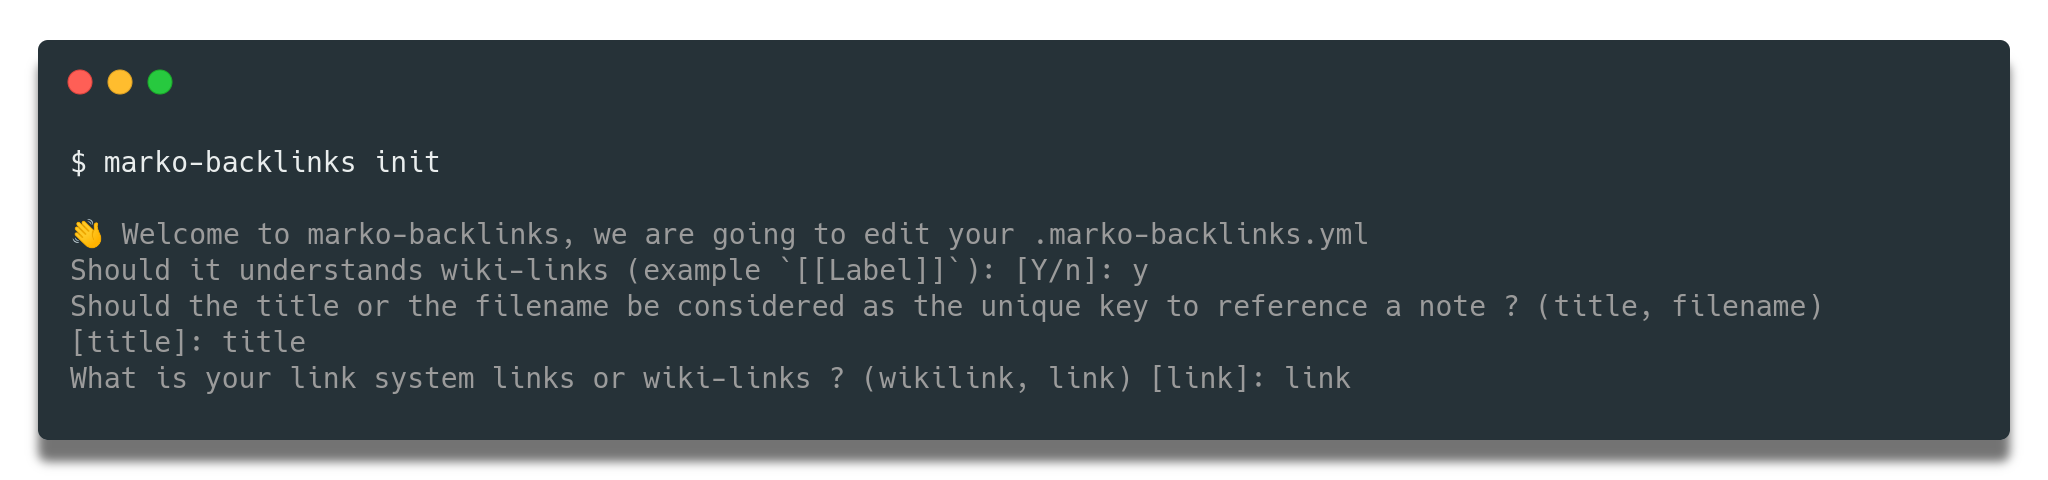
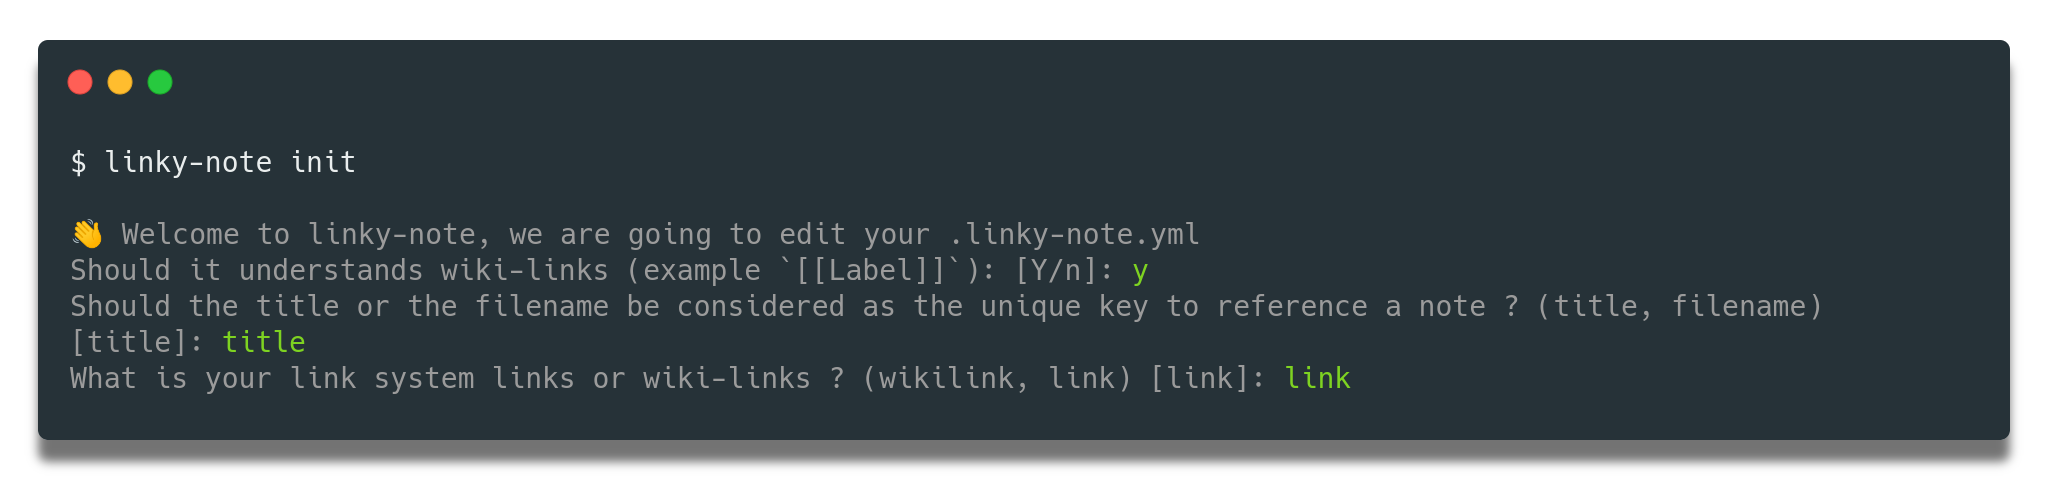
chore(linky-note): rename project

diff --git a/linky_note/entrypoints/append_linked_references.py b/linky_note/entrypoints/append_linked_references.py
@@ -1,40 +1,35 @@
 # type: ignore[attr-defined]
 
 import os
-from enum import Enum
 from pathlib import Path
 
 import typer
 from click import Choice
-from marko.md_renderer import MarkdownRenderer
-from marko_backlinks import __version__
-from marko_backlinks.adapters.markdown.factories import MarkoExtractorFactory
-from marko_backlinks.adapters.markdown.marko_modifier import MarkoModifierImpl
-from marko_backlinks.adapters.markdown.marko_parser import MarkoParserImpl
-from marko_backlinks.adapters.references_db.factories import (
+from linky_note import __version__
+from linky_note.adapters.markdown.factories import MarkoExtractorFactory
+from linky_note.adapters.markdown.marko_modifier import MarkoModifierImpl
+from linky_note.adapters.markdown.marko_parser import MarkoParserImpl
+from linky_note.adapters.references_db.factories import (
     SqlReferenceDatabaseFactory,
 )
-from marko_backlinks.dto.dto import (
-    MarkoBacklinksConfig,
-    ModifyConfig,
-    ParseConfig,
-)
-from marko_backlinks.infrastructure.db_connection import ENGINE
-from marko_backlinks.interfaces import (
+from linky_note.dto.dto import LinkyNoteConfig, ModifyConfig, ParseConfig
+from linky_note.infrastructure.db_connection import ENGINE
+from linky_note.interfaces import (
     modifier,
     parser,
     reference_extractor,
     references_db,
     renderer,
 )
-from marko_backlinks.usecases.config import Config
-from marko_backlinks.usecases.modify import modify
-from marko_backlinks.usecases.parse import parse
-from marko_backlinks.usecases.read_references import read_references
-from marko_backlinks.usecases.write import write
+from linky_note.usecases.config import Config
+from linky_note.usecases.modify import modify
+from linky_note.usecases.parse import parse
+from linky_note.usecases.read_references import read_references
+from linky_note.usecases.write import write
+from marko.md_renderer import MarkdownRenderer
 from rich.console import Console
 
-config = Config.read(Path(os.getcwd()) / ".marko-backlinks.yml")
+config = Config.read(Path(os.getcwd()) / ".linky-note.yml")
 
 references_db.REFERENCE_DB_FACTORY = SqlReferenceDatabaseFactory(ENGINE)
 parser.PARSER = MarkoParserImpl(config.parse_config)
@@ -45,8 +40,8 @@ renderer.RENDERER = MarkdownRenderer()
 reference_extractor.EXTRACTOR_FACTORY = MarkoExtractorFactory()
 
 app = typer.Typer(
-    name="marko-backlinks",
-    help='marko-backlinks adds a "Linked References" at the bottom of you markdown files',
+    name="linky-note",
+    help='linky-note adds a "Linked References" at the bottom of you markdown files',
     add_completion=False,
 )
 console = Console()
@@ -56,7 +51,7 @@ def version_callback(value: bool):
     """Prints the version of the package."""
     if value:
         console.print(
-            f"[yellow]marko-backlinks[/] version: [bold blue]{__version__}[/]"
+            f"[yellow]linky-note[/] version: [bold blue]{__version__}[/]"
         )
         raise typer.Exit()
 
@@ -111,7 +106,7 @@ def init():
         default="link",
     )
 
-    init_config = MarkoBacklinksConfig(
+    init_config = LinkyNoteConfig(
         parse_config=ParseConfig(parse_wikilinks=understand_wikilinks),
         modify_config=ModifyConfig(
             reference_by=reference_by, link_system=link_system

diff --git a/linky_note/usecases/config.py b/linky_note/usecases/config.py
@@ -4,16 +4,16 @@ from dataclasses import asdict
 from pathlib import Path
 
 import yaml
-from marko_backlinks.dto.dto import (
+from linky_note.dto.dto import (
     LinkSystem,
-    MarkoBacklinksConfig,
+    LinkyNoteConfig,
     ModifyConfig,
     ParseConfig,
     ReferenceBy,
 )
 
 
-def _config_from_dict(config_dict: Dict[str, Any]) -> MarkoBacklinksConfig:
+def _config_from_dict(config_dict: Dict[str, Any]) -> LinkyNoteConfig:
     parse_config = ParseConfig(
         parse_wikilinks=config_dict.get(
             "parse_config", ParseConfig.parse_wikilinks
@@ -31,22 +31,22 @@ def _config_from_dict(config_dict: Dict[str, Any]) -> MarkoBacklinksConfig:
             )["reference_by"]
         ),
     )
-    return MarkoBacklinksConfig(
+    return LinkyNoteConfig(
         parse_config=parse_config, modify_config=modify_config
     )
 
 
 class Config:
     @staticmethod
-    def write(path: Path, config: MarkoBacklinksConfig):
+    def write(path: Path, config: LinkyNoteConfig):
         with open(path, "w+") as config_file:
             yaml.dump(asdict(config), config_file)
 
     @staticmethod
-    def read(path: Path) -> MarkoBacklinksConfig:
+    def read(path: Path) -> LinkyNoteConfig:
         if path.is_file():
             with open(path) as config_file:
                 config_dict = yaml.full_load(config_file)
                 return _config_from_dict(config_dict)
         else:
-            return MarkoBacklinksConfig()
+            return LinkyNoteConfig()

diff --git a/linky_note/adapters/markdown/marko_modifier.py b/linky_note/adapters/markdown/marko_modifier.py
@@ -3,20 +3,18 @@ from typing import Optional
 from collections import defaultdict
 from copy import deepcopy
 
-from marko import Renderer
-from marko.block import Document
-from marko.inline import Link
-from marko_backlinks.adapters.markdown.marko_ext.elements import (
+from linky_note.adapters.markdown.marko_ext.elements import (
     BacklinkSection,
     Wikilink,
 )
-from marko_backlinks.adapters.markdown.marko_ext.marko_builder import (
-    MarkoBuilder,
-)
-from marko_backlinks.dto.dto import LinkSystem, ModifyConfig, Note, ReferenceBy
-from marko_backlinks.interfaces import references_db
-from marko_backlinks.interfaces.modifier import IModifier
-from marko_backlinks.interfaces.references_db import IReferenceDB
+from linky_note.adapters.markdown.marko_ext.marko_builder import MarkoBuilder
+from linky_note.dto.dto import LinkSystem, ModifyConfig, Note, ReferenceBy
+from linky_note.interfaces import references_db
+from linky_note.interfaces.modifier import IModifier
+from linky_note.interfaces.references_db import IReferenceDB
+from marko import Renderer
+from marko.block import Document
+from marko.inline import Link
 
 LINKED_REFERENCE_SECTION_HEADER = "Linked References"
 

diff --git a/tests/unit_tests/adapters/mardown/conftest.py b/tests/unit_tests/adapters/mardown/conftest.py
@@ -1,17 +1,16 @@
 from unittest.mock import MagicMock
 
 import pytest
-from marko import Markdown, Parser
-from marko_backlinks.adapters.markdown.marko_ext.elements import Wikilink
-from marko_backlinks.adapters.references_db.factories import (
+from linky_note.adapters.markdown.marko_ext.elements import Wikilink
+from linky_note.adapters.references_db.factories import (
     SqlReferenceDatabaseFactory,
 )
-from marko_backlinks.dto.dto import Note
-from marko_backlinks.interfaces import references_db
-from marko_backlinks.interfaces.references_db import (
+from linky_note.dto.dto import Note
+from linky_note.interfaces.references_db import (
     GetReferencesResponse,
     IReferenceDB,
 )
+from marko import Parser
 from sqlalchemy import create_engine
 
 ENGINE = create_engine("sqlite://")
@@ -25,7 +24,7 @@ def test_db():
 
 @pytest.fixture
 def build_ast():
-    from marko_backlinks.adapters.markdown.marko_modifier import (
+    from linky_note.adapters.markdown.marko_modifier import (
         LINKED_REFERENCE_SECTION_HEADER,
     )
 

diff --git a/linky_note/adapters/markdown/marko_extractor.py b/linky_note/adapters/markdown/marko_extractor.py
@@ -2,19 +2,19 @@ from typing import List, Optional, Tuple, Union
 
 import ntpath
 
-from marko.block import BlockElement, Document, Heading
-from marko.inline import InlineElement, Link
-from marko.md_renderer import MarkdownRenderer
-from marko_backlinks.adapters.markdown.marko_ext.elements import Wikilink
-from marko_backlinks.common.exceptions import InvalidNoteError
-from marko_backlinks.dto.dto import (
+from linky_note.adapters.markdown.marko_ext.elements import Wikilink
+from linky_note.common.exceptions import InvalidNoteError
+from linky_note.dto.dto import (
     Note,
     NotePath,
     NoteTitle,
     Reference,
     ReferenceContext,
 )
-from marko_backlinks.interfaces.reference_extractor import IExtractor
+from linky_note.interfaces.reference_extractor import IExtractor
+from marko.block import BlockElement, Document, Heading
+from marko.inline import InlineElement, Link
+from marko.md_renderer import MarkdownRenderer
 
 Element = Union[BlockElement, InlineElement]
 

diff --git a/tests/unit_tests/adapters/mardown/test_marko_modifier.py b/tests/unit_tests/adapters/mardown/test_marko_modifier.py
@@ -1,9 +1,8 @@
-from marko.inline import RawText
-from marko_backlinks.adapters.markdown.marko_modifier import (
+from linky_note.adapters.markdown.marko_modifier import (
     MarkoModifierImpl,
     _is_internal_destination,
 )
-from marko_backlinks.dto.dto import (
+from linky_note.dto.dto import (
     LinkSystem,
     ModifyConfig,
     Note,
@@ -12,7 +11,8 @@ from marko_backlinks.dto.dto import (
     Reference,
     ReferenceContext,
 )
-from marko_backlinks.interfaces.references_db import GetReferencesResponse
+from linky_note.interfaces.references_db import GetReferencesResponse
+from marko.inline import RawText
 
 
 def test_marko_modifier_nominal_link_system(build_ast, mocked_db):

diff --git a/linky_note/common/exceptions.py b/linky_note/common/exceptions.py
@@ -5,8 +5,8 @@
 from typing import Optional
 
 
-class MarkoBacklinksError(Exception):
-    """Base class for all business errors in marko-backlinks.
+class LinkyNoteError(Exception):
+    """Base class for all business errors in linky-note.
     Args:
         code: An unique indentifier for this kind of error.
     """
@@ -16,6 +16,6 @@ class MarkoBacklinksError(Exception):
         super().__init__(message)
 
 
-class InvalidNoteError(MarkoBacklinksError):
+class InvalidNoteError(LinkyNoteError):
     def __init__(self, message: Optional[str] = None) -> None:
         super().__init__(code="invalid-note", message=message)

diff --git a/tests/unit_tests/adapters/references_db/test_query_builders.py b/tests/unit_tests/adapters/references_db/test_query_builders.py
@@ -1,11 +1,11 @@
 import factory
 from factory import SubFactory
-from marko_backlinks.adapters.references_db import tables
-from marko_backlinks.adapters.references_db.query_builders import (
+from linky_note.adapters.references_db import tables
+from linky_note.adapters.references_db.query_builders import (
     SQLiteReferenceDatabase,
 )
-from marko_backlinks.dto.dto import Note, Reference
-from marko_backlinks.interfaces.references_db import (
+from linky_note.dto.dto import Note, Reference
+from linky_note.interfaces.references_db import (
     GetNoteByTitleQuery,
     GetReferencesThatTarget,
     UpsertNoteQuery,

diff --git a/linky_note/adapters/markdown/marko_parser.py b/linky_note/adapters/markdown/marko_parser.py
@@ -1,12 +1,12 @@
-from marko import Parser
-from marko.block import Document
-from marko_backlinks.adapters.markdown.marko_ext.elements import (
+from linky_note.adapters.markdown.marko_ext.elements import (
     BacklinkSection,
     Wikiimage,
     Wikilink,
 )
-from marko_backlinks.dto.dto import ParseConfig
-from marko_backlinks.interfaces.parser import IParser
+from linky_note.dto.dto import ParseConfig
+from linky_note.interfaces.parser import IParser
+from marko import Parser
+from marko.block import Document
 
 
 class MarkoParserImpl(IParser):

diff --git a/linky_note/adapters/markdown/marko_ext/elements.py b/linky_note/adapters/markdown/marko_ext/elements.py
@@ -2,16 +2,16 @@ from typing import Any, Iterator, List, Match, Optional, Tuple
 
 import re
 
-from marko import block, inline, inline_parser
-from marko.helpers import Source
-from marko.inline import Link as MarkoLink
-from marko_backlinks.dto.dto import (
+from linky_note.dto.dto import (
     Note,
     NotePath,
     NoteTitle,
     ParsedReference,
     ReferenceContext,
 )
+from marko import block, inline, inline_parser
+from marko.helpers import Source
+from marko.inline import Link as MarkoLink
 
 
 class Wikilink(inline.InlineElement):

diff --git a/tests/unit_tests/adapters/mardown/test_marko_parser.py b/tests/unit_tests/adapters/mardown/test_marko_parser.py
@@ -1,11 +1,8 @@
 from unittest.mock import mock_open, patch
 
-from marko_backlinks.adapters.markdown.marko_ext.elements import (
-    Wikiimage,
-    Wikilink,
-)
-from marko_backlinks.adapters.markdown.marko_parser import MarkoParserImpl
-from marko_backlinks.dto.dto import ParseConfig
+from linky_note.adapters.markdown.marko_ext.elements import Wikiimage, Wikilink
+from linky_note.adapters.markdown.marko_parser import MarkoParserImpl
+from linky_note.dto.dto import ParseConfig
 
 content_links = """# Meeting Note ABC
 

diff --git a/linky_note/adapters/references_db/factories.py b/linky_note/adapters/references_db/factories.py
@@ -1,8 +1,8 @@
-from marko_backlinks.adapters.references_db.query_builders import (
+from linky_note.adapters.references_db.query_builders import (
     SQLiteReferenceDatabase,
 )
-from marko_backlinks.adapters.references_db.tables import Base
-from marko_backlinks.dto.dto import ModifyConfig
+from linky_note.adapters.references_db.tables import Base
+from linky_note.dto.dto import ModifyConfig
 from sqlalchemy.engine import Connectable
 from sqlalchemy.orm import sessionmaker
 
